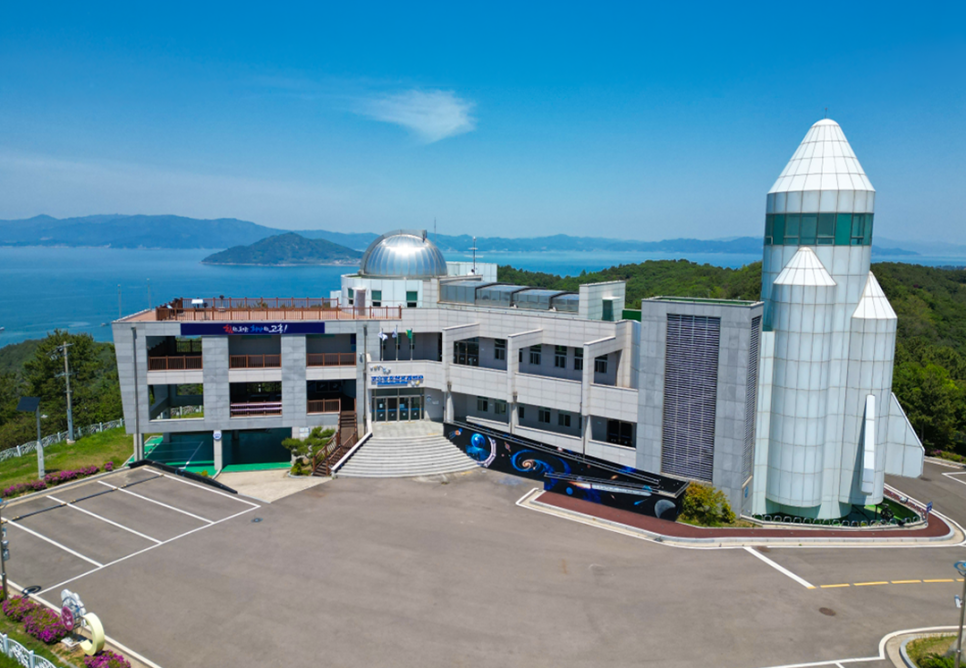
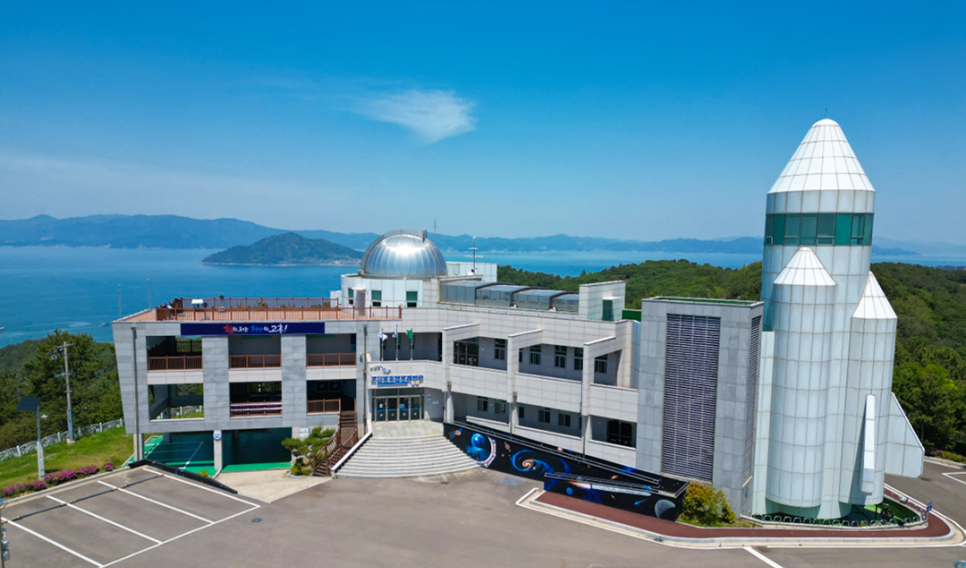
Add files via upload

diff --git a/index.html b/index.html
@@ -120,10 +120,10 @@
   .contents_div .cd-sec-night .cd-spot-name{color:#fff;}
   .contents_div .cd-spot-badge{font-size:14px;font-weight:700;color:#fff;background:rgba(255,255,255,.16);border:1px solid rgba(255,255,255,.55);border-radius:999px;padding:3px 10px;white-space:nowrap;}
   .contents_div .cd-chatline{margin:0 0 8px;}
-  .contents_div .cd-chatline .cd-time{display:inline-flex;align-items:center;gap:5px;font-size:13px;font-weight:400;color:#fff;text-shadow:0 0 4px rgba(0,0,0,.45),0 1px 6px rgba(0,0,0,.35);margin-bottom:8px;}
-  .contents_div .cd-chatline .cd-time svg{width:14px;height:14px;stroke:#fff;stroke-width:2;fill:none;stroke-linecap:round;stroke-linejoin:round;filter:drop-shadow(0 0 3px rgba(0,0,0,.45));}
+  .contents_div .cd-chatline .cd-time{display:inline-flex;align-items:center;gap:5px;font-size:14px;font-weight:400;color:#fff;text-shadow:0 0 4px rgba(0,0,0,.45),0 1px 6px rgba(0,0,0,.35);margin-bottom:8px;}
+  .contents_div .cd-chatline .cd-time svg{width:15px;height:15px;stroke:#fff;stroke-width:2;fill:none;stroke-linecap:round;stroke-linejoin:round;filter:drop-shadow(0 0 3px rgba(0,0,0,.45));}
   .contents_div .cd-sec-night .cd-chatline .cd-time{color:#EAF3FC;}
-  .contents_div .cd-bub{display:block;width:fit-content;max-width:100%;background:#fff;border-radius:0;border:1px solid #292929;padding:5px 13px;font-size:14.5px;font-weight:400;line-height:1.5;color:var(--cd-ink);}
+  .contents_div .cd-bub{display:block;width:fit-content;max-width:100%;background:#fff;border-radius:0;border:1px solid #292929;padding:5px 13px;font-size:15.5px;font-weight:400;line-height:1.5;color:var(--cd-ink);}
   .contents_div .cd-bub + .cd-bub{margin-top:7px;margin-left:16px;}
   .contents_div .cd-bub .cd-pop{color:var(--cd-blue-deep);font-weight:800;}
   .contents_div .cd-sec-night .cd-bub{background:rgba(255,255,255,.96);}
@@ -137,9 +137,9 @@
   .contents_div .cd-cin.cd-cin-full{position:relative;}
   .contents_div .cd-cin-full .cd-ph-space{height:225px;}
   /* 프레임 노출 높이 (사진이 보이는 구간) */
-  .contents_div .cd-cin-full .cd-ph-space:not(.cd-ph-space-rect){height:235px;}
+  .contents_div .cd-cin-full .cd-ph-space:not(.cd-ph-space-rect){height:242px;}
   /* ★ 2행1열 · 2행2열 프레임만 +10px (텍스트에 가려지는 영역 보정) */
-  .contents_div .cd-cin-full .cd-ph-space.cd-ph-tall{height:235px;}
+  .contents_div .cd-cin-full .cd-ph-space.cd-ph-tall{height:242px;}
   /* 2행 프레임 + 플로팅 직사각형 동시 사용 시 높이 유지 */
   .contents_div .cd-ph-full{
     position:absolute;
@@ -197,7 +197,7 @@
   .contents_div .cd-ph-space.cd-ph-space-rect{
     height:225px;                                                     /* .cd-cin 레이아웃 높이 — 건드리지 않음 */
     --cd-rc-w:210px;                                                     /* ★ 가로 크기 (우측 배치용) */
-    --cd-rc-h:190px;                                                     /* ★ 세로 크기 — 225px 안이어야 위아래 텍스트를 안 가림 */
+    --cd-rc-h:197px;                                                     /* ★ 세로 크기 — 225px 안이어야 위아래 텍스트를 안 가림 */
     --cd-rc-right:15px;                                                  /* ★ 우측 여백 — 음수면 카드 바깥쪽으로 */
   }
   .contents_div .cd-ph-rect{
@@ -233,19 +233,19 @@
   .contents_div .cd-info-card{background:#ffffff;border-radius:10px;padding:8px 13px 9px;}
   .contents_div .cd-info-card .cd-who{display:flex;align-items:center;gap:6px;font-size:14px;font-weight:800;letter-spacing:-.01em;margin-bottom:2px;}
   .contents_div .cd-info-card .cd-who .cd-tag{color:var(--cd-sub);font-weight:500;}
-  .contents_div .cd-irow{display:flex;align-items:flex-start;gap:8px;font-size:13.5px;}
-  .contents_div .cd-irow + .cd-irow{margin-top:2px;}
-  .contents_div .cd-irow .cd-ic{flex:none;width:74px;display:flex;align-items:center;gap:8px;font-size:13.5px;font-weight:500;color:var(--cd-ink);height:19px;}
+  .contents_div .cd-irow{display:flex;align-items:flex-start;gap:8px;font-size:14.5px;}
+  .contents_div .cd-irow + .cd-irow{margin-top:3px;}
+  .contents_div .cd-irow .cd-ic{flex:none;width:78px;display:flex;align-items:center;gap:8px;font-size:14.5px;font-weight:500;color:var(--cd-ink);height:20px;}
   .contents_div .cd-irow .cd-ic .cd-emo{flex:none;width:13px;height:13px;background-position:center;background-repeat:no-repeat;background-size:contain;}
-  .contents_div .cd-irow .cd-ic .cd-emo-txt{height:auto;font-size:11.5px;line-height:19px;text-align:center;font-weight:400;font-family:'Apple Color Emoji','Segoe UI Emoji','Noto Color Emoji',sans-serif;}
-  .contents_div .cd-irow .cd-tx{font-weight:400;flex:1;line-height:19px;}
-  .contents_div .cd-irow .cd-ic .cd-lb2{font-style:normal;display:inline-flex;width:40px;justify-content:space-between;}
-  .contents_div .cd-irow .cd-ic::after{content:"|";font-weight:400;color:rgba(23,54,79,.28);line-height:19px;}
+  .contents_div .cd-irow .cd-ic .cd-emo-txt{height:auto;font-size:12.5px;line-height:20px;text-align:center;font-weight:400;font-family:'Apple Color Emoji','Segoe UI Emoji','Noto Color Emoji',sans-serif;}
+  .contents_div .cd-irow .cd-tx{font-weight:400;flex:1;line-height:20px;}
+  .contents_div .cd-irow .cd-ic .cd-lb2{font-style:normal;display:inline-flex;width:44px;justify-content:space-between;}
+  .contents_div .cd-irow .cd-ic::after{content:"|";font-weight:400;color:rgba(23,54,79,.28);line-height:20px;}
   .contents_div .cd-irow .cd-tx b{font-weight:700;}
-  .contents_div .cd-cool{margin:6px 0 2px;background:none;border:1px solid var(--cd-blue);border-radius:999px;padding:3px 11px;display:flex;gap:7px;align-items:center;}
-  .contents_div .cd-cool .cd-cl{flex:none;font-size:9px;font-weight:800;letter-spacing:.06em;color:var(--cd-blue);background:none;border:none;border-radius:0;padding:0;align-self:stretch;display:flex;align-items:center;}
-  .contents_div .cd-cool .cd-cl::after{content:"\2022";margin-left:8px;font-size:14px;font-weight:800;line-height:1;letter-spacing:0;}
-  .contents_div .cd-cool .cd-ct{font-size:12px;font-weight:400;line-height:1.4;color:var(--cd-blue);}
+  .contents_div .cd-cool{margin:7px 0 2px;background:none;border:1px solid var(--cd-blue);border-radius:999px;padding:3px 11px;display:flex;gap:7px;align-items:center;}
+  .contents_div .cd-cool .cd-cl{flex:none;font-size:10px;font-weight:800;letter-spacing:.06em;color:var(--cd-blue);background:none;border:none;border-radius:0;padding:0;align-self:stretch;display:flex;align-items:center;}
+  .contents_div .cd-cool .cd-cl::after{content:"\2022";margin-left:8px;font-size:15px;font-weight:800;line-height:1;letter-spacing:0;}
+  .contents_div .cd-cool .cd-ct{font-size:13px;font-weight:400;line-height:1.4;color:var(--cd-blue);}
   /* ══ 섹션별 고유 배경 ══ */
   .contents_div .cd-sec-chat .cd-bg{background:#F4F5F7;}
   .contents_div .cd-sec-chat .cd-bg::after{background:none;}
@@ -276,18 +276,18 @@
   .contents_div .cd-bene p + p{margin-top:9px;}
   /* ── 정보 스펙 리스트 : 박스 없이 라벨+값 / 헤어라인으로만 구분 ── */
   .contents_div .cd-bene .cd-spec{margin-top:18px;border-top:1px solid rgba(15,98,181,.13);}
-  .contents_div .cd-bene .cd-spec>div{display:flex;gap:12px;align-items:baseline;padding:9px 1px;border-bottom:1px solid rgba(15,98,181,.13);}
-  .contents_div .cd-bene .cd-spec dt{flex:none;width:56px;font-size:11.5px;font-weight:700;color:var(--cd-blue);letter-spacing:-.02em;line-height:1.65;}
-  .contents_div .cd-bene .cd-spec dd{flex:1;min-width:0;font-size:12.5px;font-weight:500;color:var(--cd-ink);letter-spacing:-.01em;line-height:1.65;}
+  .contents_div .cd-bene .cd-spec>div{display:flex;gap:10px;align-items:baseline;padding:9px 1px;border-bottom:1px solid rgba(15,98,181,.13);}
+  .contents_div .cd-bene .cd-spec dt{flex:none;width:52px;font-size:12.5px;font-weight:700;color:var(--cd-blue);letter-spacing:-.02em;line-height:1.65;}
+  .contents_div .cd-bene .cd-spec dd{flex:1;min-width:0;font-size:13.5px;font-weight:500;color:var(--cd-ink);letter-spacing:-.01em;line-height:1.65;}
   .contents_div .cd-bene .cd-spec dd b{font-weight:700;color:var(--cd-blue-deep);}
-  .contents_div .cd-bene .cd-spec dd .cd-add{display:inline-block;margin-top:3px;font-size:11.5px;font-weight:400;color:var(--cd-sub);}
+  .contents_div .cd-bene .cd-spec dd .cd-add{display:inline-block;margin-top:3px;font-size:12.5px;font-weight:400;color:var(--cd-sub);}
   .contents_div .cd-bene .cd-cta-row{display:flex;gap:8px;margin-top:20px;}
-  .contents_div .cd-bene .cd-cta-row .cd-cta{flex:1;margin-top:0;padding:12px 6px;}
-  .contents_div .cd-bene .cd-cta{display:flex;align-items:center;justify-content:center;gap:6px;margin-top:20px;background:var(--cd-blue);color:#fff;font-size:13.5px;font-weight:800;letter-spacing:-.01em;text-decoration:none;border-radius:12px;padding:12px;}
+  .contents_div .cd-bene .cd-cta-row .cd-cta{flex:1;margin-top:0;padding:13px 6px;}
+  .contents_div .cd-bene .cd-cta{display:flex;align-items:center;justify-content:center;gap:6px;margin-top:20px;background:var(--cd-blue);color:#fff;font-size:14.5px;font-weight:800;letter-spacing:-.01em;text-decoration:none;border-radius:12px;padding:13px;}
   .contents_div .cd-bene .cd-cta svg{width:15px;height:15px;flex:none;}
-  .contents_div .cd-coupon .cd-cta{display:flex;align-items:center;justify-content:center;gap:6px;margin-top:12px;background:var(--cd-blue);color:#fff;font-size:13.5px;font-weight:800;letter-spacing:-.01em;text-decoration:none;border-radius:12px;padding:12px;}
+  .contents_div .cd-coupon .cd-cta{display:flex;align-items:center;justify-content:center;gap:6px;margin-top:12px;background:var(--cd-blue);color:#fff;font-size:14.5px;font-weight:800;letter-spacing:-.01em;text-decoration:none;border-radius:12px;padding:13px;}
   /* ══ 아웃트로 ══ */
-  .contents_div .cd-sec-outro{text-align:center;}
+  .contents_div .cd-sec-outro{text-align:center;margin-top:-1px;}
   .contents_div .cd-sec-outro .cd-bg{background:linear-gradient(180deg,#E1F1FD 0%,#C7E4F8 100%);}
   .contents_div .cd-sec-outro .cd-bg::after{background:none;}
   .contents_div .cd-sec-outro .cd-inner{padding:9px 28px 54px;}
@@ -669,7 +669,7 @@
             <span class="cd-bub">3층 전시관·4층 전망대, 해 질 녘 방문 추천!</span>
           </div>
           <!-- 플로팅 직사각형 프레임 (우측) : --cd-rc-w 가로 · --cd-rc-h 세로 · --cd-rc-right 우측 여백 -->
-          <div class="cd-ph-space cd-ph-space-rect cd-ph-tall" style="--cd-rc-w:160px;--cd-rc-h:210px;--cd-rc-right:15px;">
+          <div class="cd-ph-space cd-ph-space-rect cd-ph-tall" style="--cd-rc-w:160px;--cd-rc-h:217px;--cd-rc-right:15px;">
             <div class="cd-ph-rect"><img src="img/광주사직공원전망대3.jpg" alt=""></div>
           </div>
           <div class="cd-info-card">
